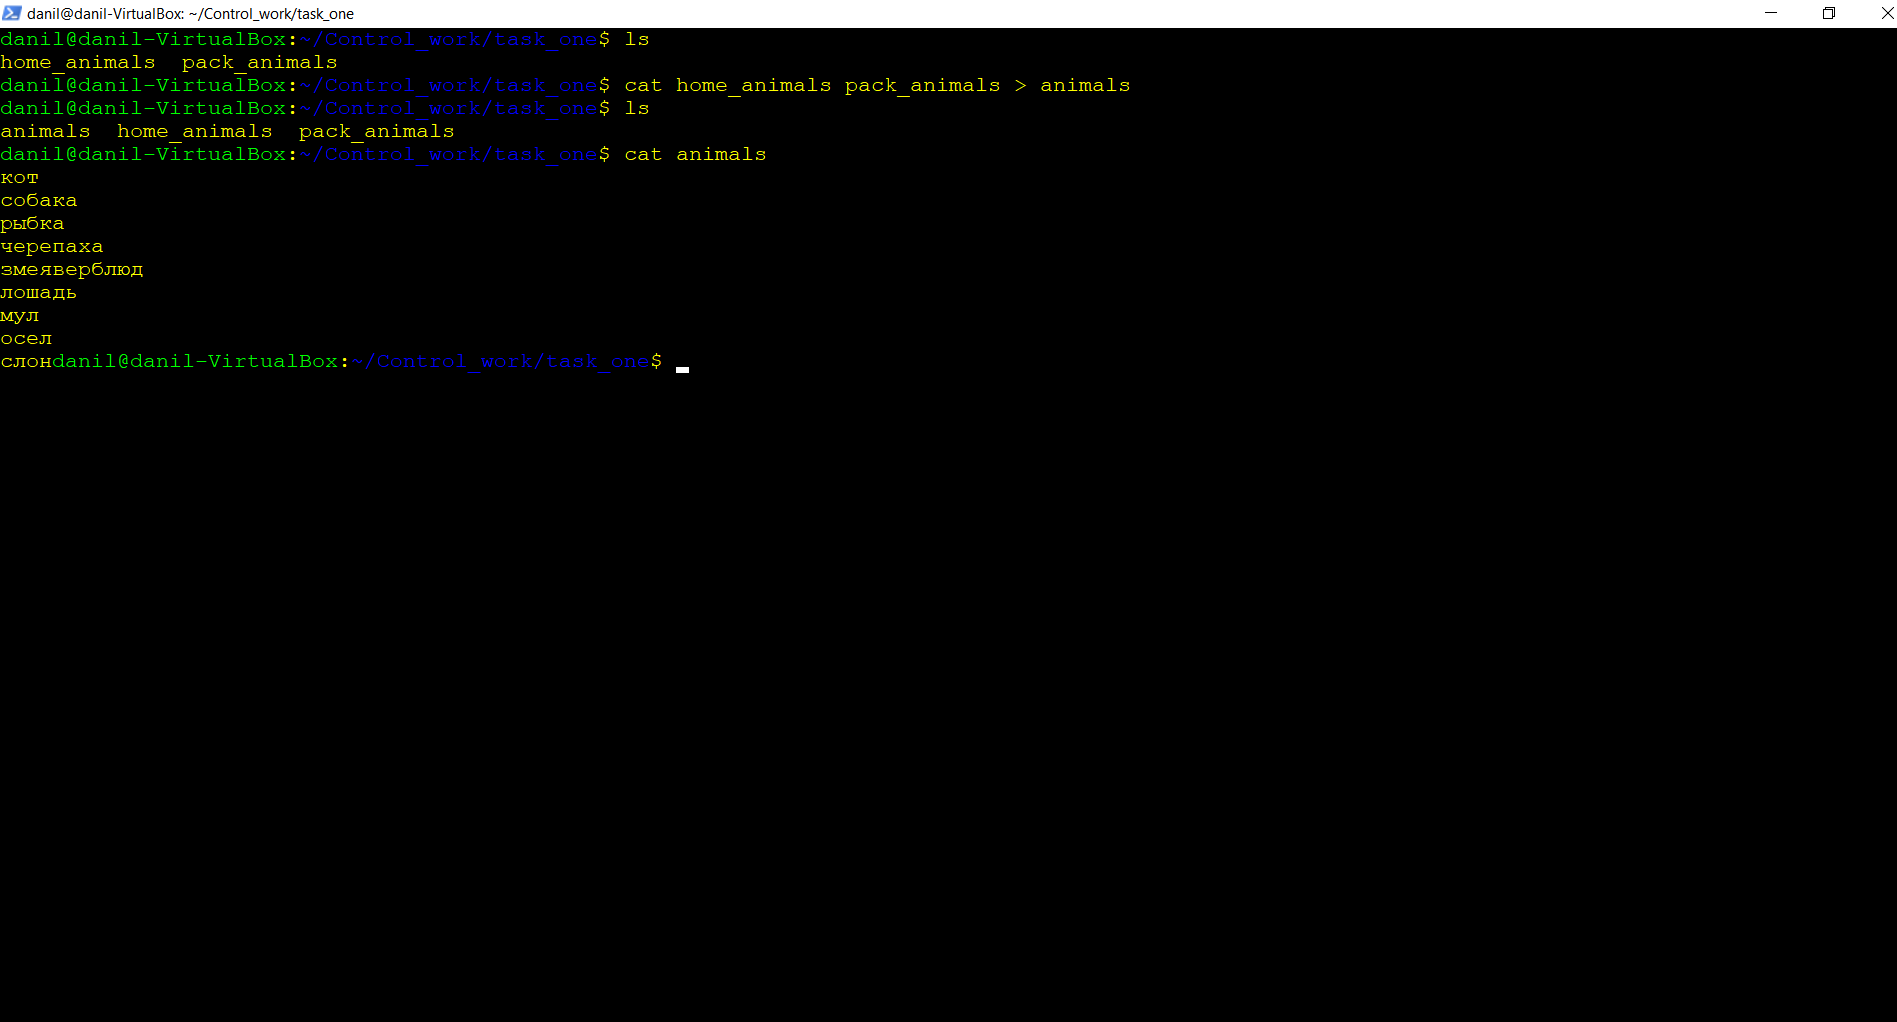
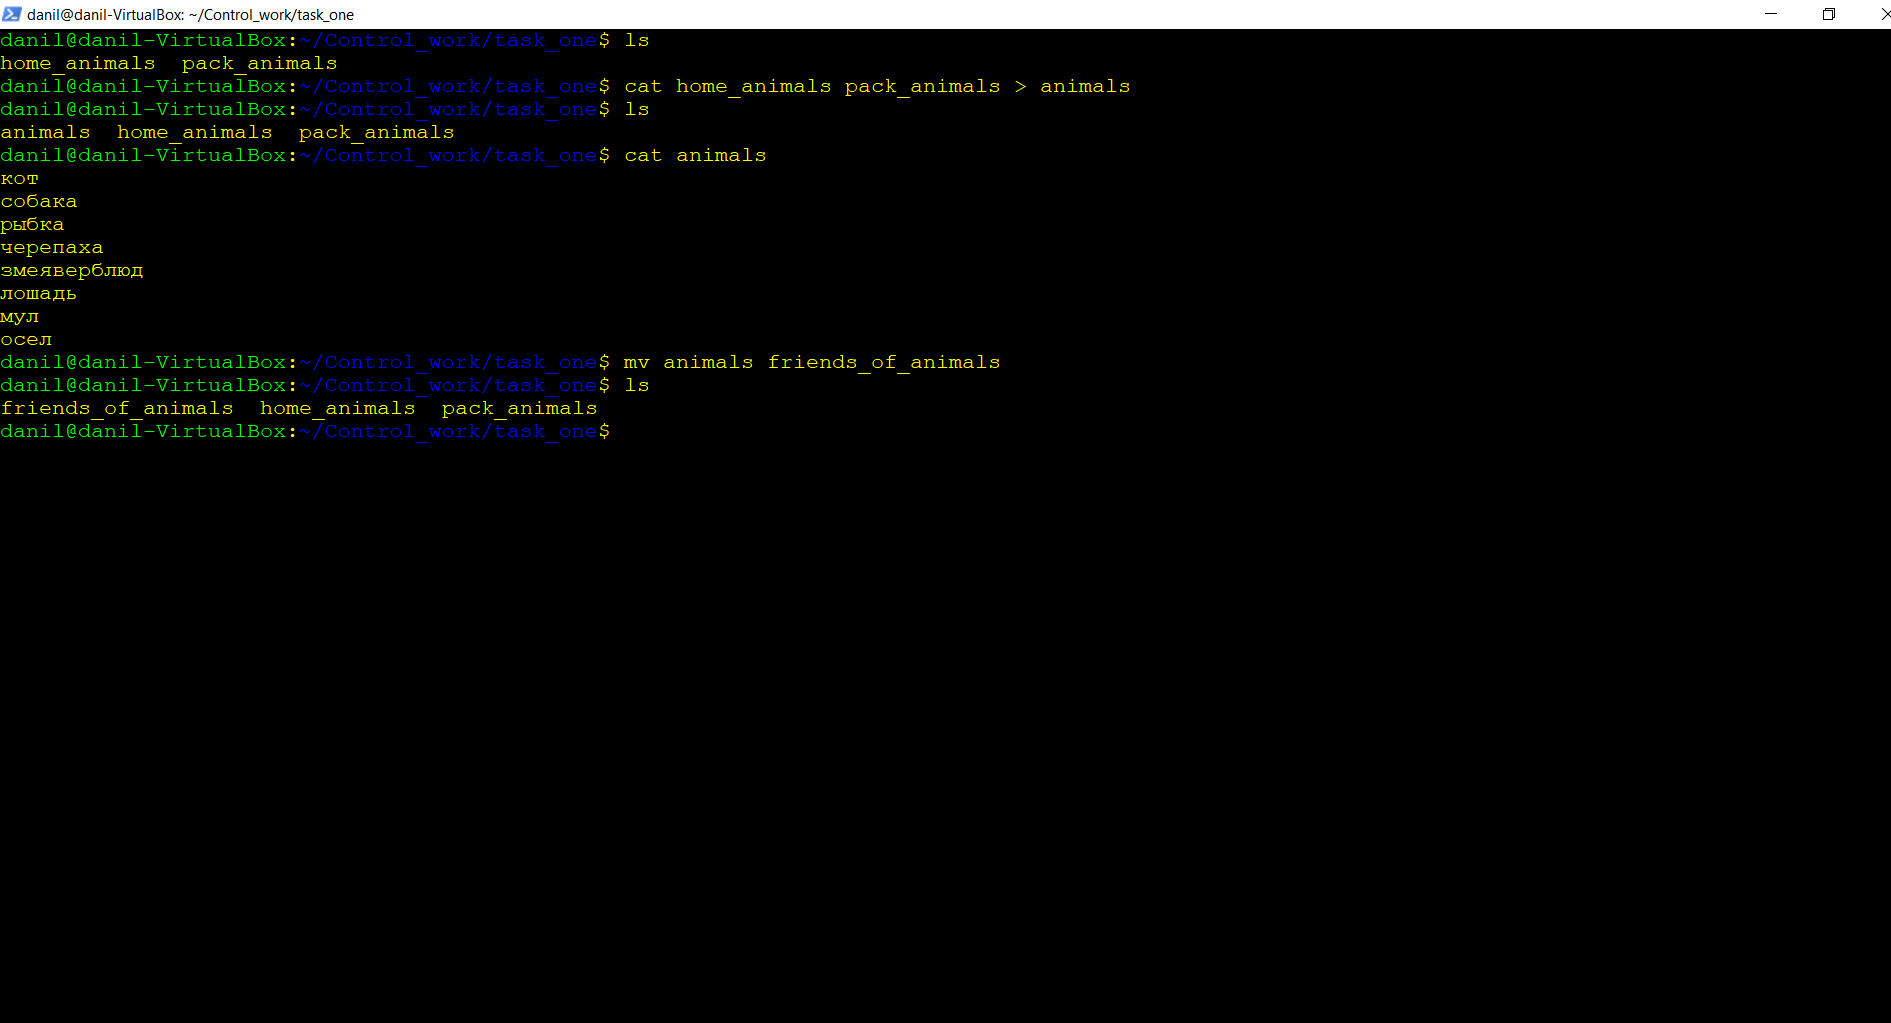
remove image 2 jf the task one

Changed region(s): [[0.0, 0.0, 0.5928, 0.4247], [0.9984, 0.0, 1.0, 0.0303]]

diff --git a/README.md b/README.md
@@ -21,7 +21,7 @@
 
 ![create_files](https://github.com/daniil-koblov/Control_work_on_specialization/blob/main/image/task_one_i_1.png?raw=true)
 
-Объединение файлов:
+Объединение и переименование файла:
 
 ![merging_files](https://github.com/daniil-koblov/Control_work_on_specialization/blob/main/image/task_one_i_2.png?raw=true)
 
